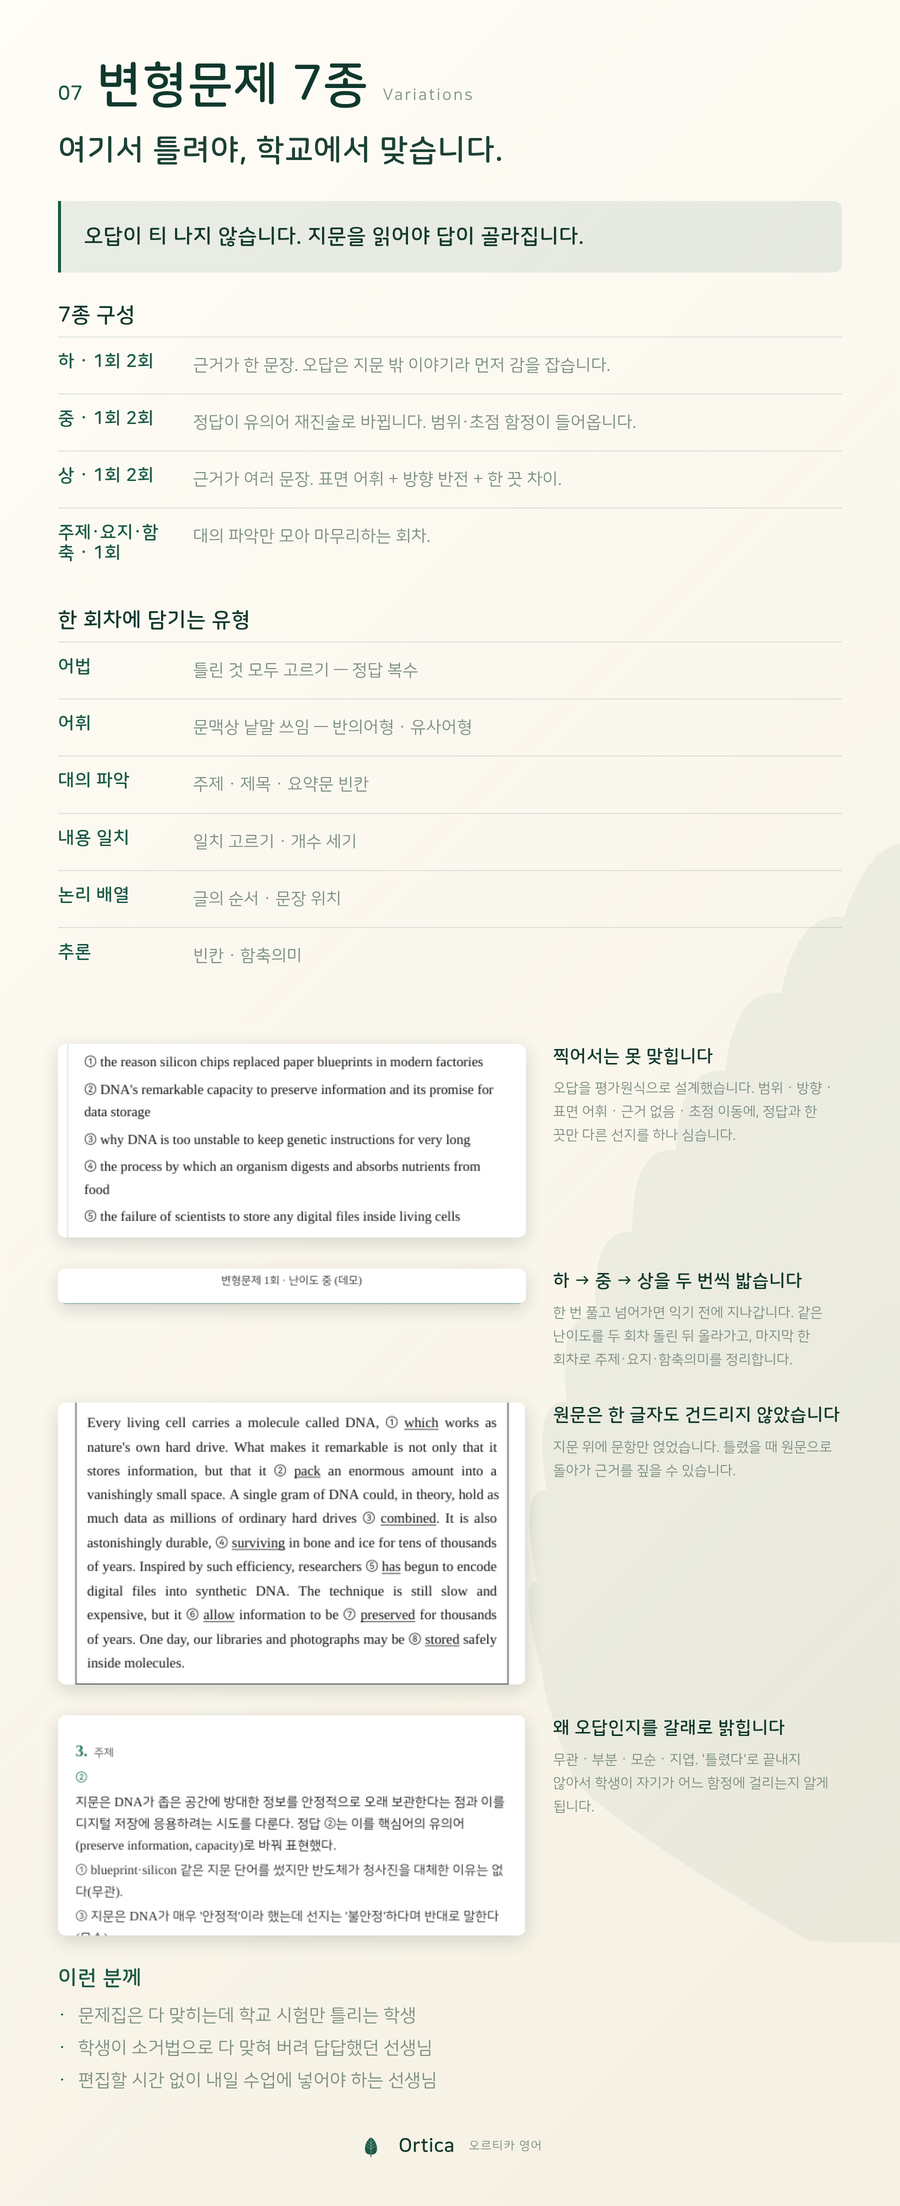
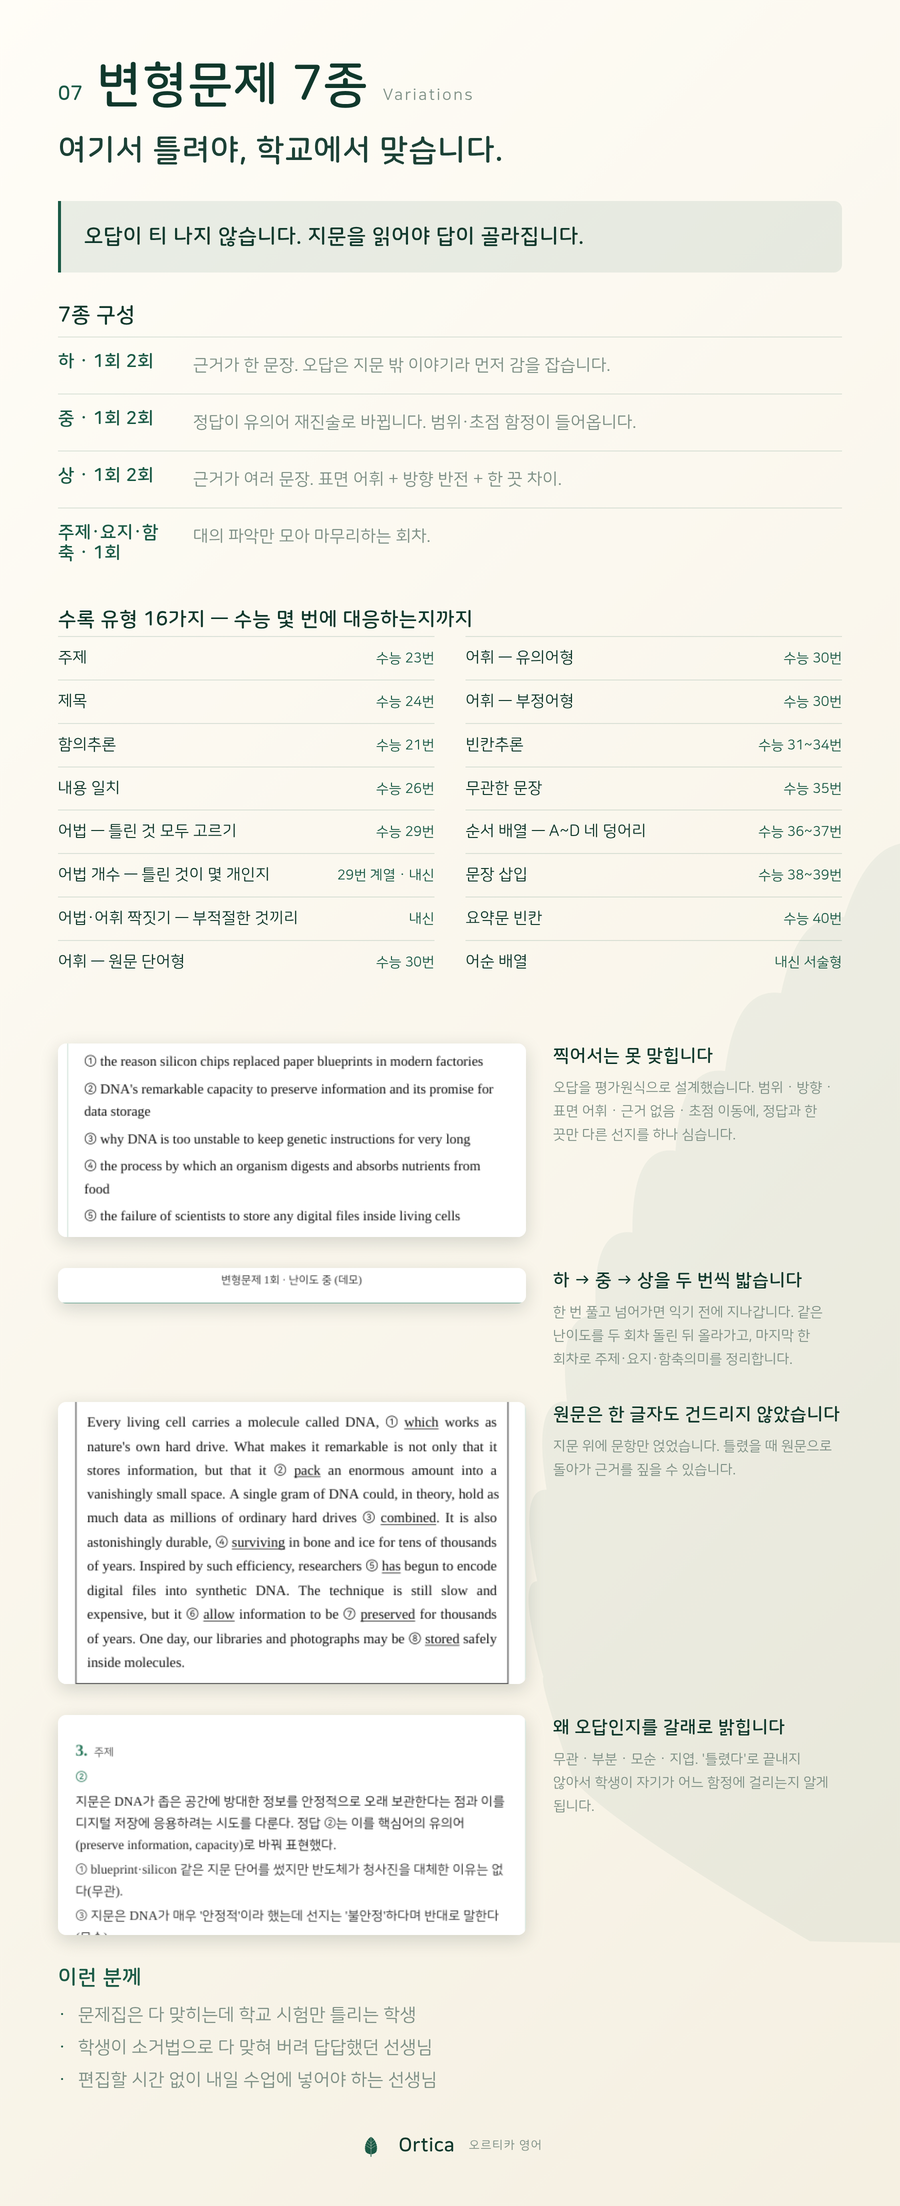
변형문제 수록 유형을 실제 16가지로
'어법·어휘·대의 파악·내용 일치·논리 배열·추론' 여섯 갈래로 뭉뚱그리고
있었다. 실제로는 열여섯 유형이고, 유형마다 수능 몇 번에 대응하는지가
붙는다. 그게 이 자료를 고르는 이유다.

어법만 셋(모두 고르기·개수·짝짓기), 어휘만 셋(원문형·유의어형·부정어형).
개수·짝짓기·어순 배열은 수능에 없고 내신에만 나오는 형태다.

항목이 열여섯이라 세로로 세우면 그 표만 한 화면을 먹는다. Item.grids 와
grid_table 을 더해 두 칸으로 접는다.

Claude-Session: https://claude.ai/code/session_015BpsJgtaBR6xs1aCKnE4xw

diff --git a/brand/catalog.py b/brand/catalog.py
@@ -39,6 +39,9 @@ class Item:
     # ↑ 판형이 여럿인 자료는 그 판형을 다 보여 줘야 무슨 말인지 통한다
     signature: bool = False      # 시그니처 자료. 소개 이미지를 따로 크게 만든다
     made_to_order: bool = False  # 받아 놓고 파는 게 아니라 주문받아 만드는 자료
+    grids: list[tuple[str, list[tuple[str, str]]]] = field(default_factory=list)
+    # ↑ 항목이 열 개를 넘어가는 표. 두 칸으로 접어 놓는다. 줄줄이 세우면
+    #   그 표만 한 화면을 먹는다
     tables: list[tuple[str, list[tuple[str, str]]]] = field(default_factory=list)
     # ↑ (표 제목, [(왼쪽 칸, 오른쪽 설명)]) — 회차 구성·난이도 기준처럼 줄글로 풀면
     #   안 읽히는 것을 표로 보여 준다
@@ -348,20 +351,32 @@ MATERIALS: list[Item] = [
             "읽고도 답이 골라지니까요. 양치기 자료가 그렇습니다. "
             "그래서 지문은 건드리지 않고 오답을 평가원식으로 설계했습니다."
         ),
+        grids=[
+            ("수록 유형 16가지 — 수능 몇 번에 대응하는지까지", [
+                ("주제", "수능 23번"),
+                ("제목", "수능 24번"),
+                ("함의추론", "수능 21번"),
+                ("내용 일치", "수능 26번"),
+                ("어법 — 틀린 것 모두 고르기", "수능 29번"),
+                ("어법 개수 — 틀린 것이 몇 개인지", "29번 계열 · 내신"),
+                ("어법·어휘 짝짓기 — 부적절한 것끼리", "내신"),
+                ("어휘 — 원문 단어형", "수능 30번"),
+                ("어휘 — 유의어형", "수능 30번"),
+                ("어휘 — 부정어형", "수능 30번"),
+                ("빈칸추론", "수능 31~34번"),
+                ("무관한 문장", "수능 35번"),
+                ("순서 배열 — A~D 네 덩어리", "수능 36~37번"),
+                ("문장 삽입", "수능 38~39번"),
+                ("요약문 빈칸", "수능 40번"),
+                ("어순 배열", "내신 서술형"),
+            ]),
+        ],
         tables=[
             ("7종 구성", [
                 ("하 · 1회 2회", "근거가 한 문장. 오답은 지문 밖 이야기라 먼저 감을 잡습니다."),
                 ("중 · 1회 2회", "정답이 유의어 재진술로 바뀝니다. 범위·초점 함정이 들어옵니다."),
                 ("상 · 1회 2회", "근거가 여러 문장. 표면 어휘 + 방향 반전 + 한 끗 차이."),
                 ("주제·요지·함축 · 1회", "대의 파악만 모아 마무리하는 회차."),
-            ]),
-            ("한 회차에 담기는 유형", [
-                ("어법", "틀린 것 모두 고르기 — 정답 복수"),
-                ("어휘", "문맥상 낱말 쓰임 — 반의어형 · 유사어형"),
-                ("대의 파악", "주제 · 제목 · 요약문 빈칸"),
-                ("내용 일치", "일치 고르기 · 개수 세기"),
-                ("논리 배열", "글의 순서 · 문장 위치"),
-                ("추론", "빈칸 · 함축의미"),
             ]),
         ],
         points=[
@@ -383,7 +398,7 @@ MATERIALS: list[Item] = [
         ],
         spec=[("형태", "PDF"),
               ("구성", "7종 — 하·중·상 각 2회 + 주제·요지·함축의미 1회"),
-              ("수록 유형", "어법 · 어휘 · 대의 파악 · 내용 일치 · 논리 배열 · 추론"),
+              ("수록 유형", "16가지 — 주제·제목·함의·일치·어법 3종·어휘 3종·빈칸·무관·순서·삽입·요약·어순"),
               ("판본", "학생용 · 교사용 · 빠른정답 · 해설 + 확인 페이지"),
               ("검증", "문항 3단계 검증 · 애매 문항 별도 표시")],
         who=["문제집은 다 맞히는데 학교 시험만 틀리는 학생",

diff --git a/brand/build.py b/brand/build.py
@@ -546,6 +546,27 @@ LINEUP_PARTS = ["lineup-1-read.png", "lineup-2-pilsaengbo.png",
                 "lineup-3-write.png"]
 
 
+def grid_table(title: str, rows, t: dict[str, str], u: float, width: float) -> str:
+    """항목이 많은 표를 두 칸으로 접는다.
+
+    열여섯 줄을 세로로 세우면 그 표만 한 화면을 먹는다. 왼쪽에 유형, 오른쪽에
+    대응 번호를 붙여 짧은 줄 열여섯 개로 만들면 훑어보기가 된다.
+    """
+    cells = "".join(f"""<div style="display:flex;justify-content:space-between;
+      align-items:baseline;gap:{u * 1.2:.0f}px;padding:{u * 1.15:.0f}px 0;
+      border-top:1px solid {t['line']};break-inside:avoid">
+      <div class="sans" style="font-size:{u * 1.75:.0f}px;color:{t['fg']};
+           line-height:1.4;word-break:keep-all">{k}</div>
+      <div class="sans" style="flex:0 0 auto;font-size:{u * 1.5:.0f}px;
+           color:{t['accent']};white-space:nowrap">{v}</div>
+    </div>""" for k, v in rows)
+    return f"""<div style="margin-top:{u * 3.4:.0f}px">
+      <div class="ko" style="font-size:{u * 2.2:.0f}px;color:{t['fg']};
+           margin-bottom:{u * .6:.0f}px;word-break:keep-all">{title}</div>
+      <div style="column-count:2;column-gap:{u * 3.4:.0f}px">{cells}</div>
+    </div>"""
+
+
 def spec_table(title: str, rows, t: dict[str, str], u: float,
                label_w: float = 13) -> str:
     """제목 + (왼쪽 칸 / 오른쪽 설명) 표. 회차 구성·난이도 기준처럼
@@ -660,6 +681,8 @@ def build_detail(item, width: int = DOC_W) -> tuple[str, int]:
     # 반 페이지 — 차별점 바로 아래. 무엇을 파는지 지면으로 한 번 보여 주고
     # 특징을 하나씩 뜯는 순서가 읽힌다.
     tables_el = "".join(spec_table(title, rows, t, u) for title, rows in item.tables)
+    tables_el += "".join(grid_table(title, rows, t, u, width - u * 13)
+                         for title, rows in item.grids)
     name_px = u * (7.0 if item.signature else 5.4)
 
     # 형태·구성·배포는 이미지에 넣지 않는다. PDF·즉시 다운로드처럼 자료마다

diff --git a/brand/ANALYSIS.md b/brand/ANALYSIS.md
@@ -195,11 +195,29 @@
 베끼지 않고 유의어로 재진술합니다. '원문에서 본 것 같은' 선지가 오히려 함정입니다.
 모든 문항이 3단계 검증을 거치고, 애매할 수 있는 것만 맨 끝 확인 페이지에 모읍니다.
 
-**2) 어법은 "모두 고르시오"**
+**2) 수록 유형 16가지 — 수능 몇 번에 대응하는지까지**
+
+| 유형 | 수능 대응 | | 유형 | 수능 대응 |
+| --- | --- | --- | --- | --- |
+| 주제 | 23번 | | 어휘 — 유의어형 | 30번 |
+| 제목 | 24번 | | 어휘 — 부정어형 | 30번 |
+| 함의추론 | 21번 | | 빈칸추론 | 31~34번 |
+| 내용 일치 | 26번 | | 무관한 문장 | 35번 |
+| 어법 — 틀린 것 모두 고르기 | 29번 | | 순서 배열 (A~D) | 36~37번 |
+| 어법 개수 — 몇 개인지 | 29번 계열·내신 | | 문장 삽입 | 38~39번 |
+| 어법·어휘 짝짓기 | 내신 | | 요약문 빈칸 | 40번 |
+| 어휘 — 원문 단어형 | 30번 | | 어순 배열 | 내신 서술형 |
+
+어법만 셋(모두 고르기 · 개수 · 짝짓기), 어휘만 셋(원문형 · 유의어형 · 부정어형)
+입니다. **수능에 없고 내신에만 나오는 형태(개수·짝짓기·어순 배열)를 따로
+넣었다는 것**이 이 표의 값입니다. 학교 시험지에 나오는데 시중 변형문제집에는
+없는 자리입니다.
+
+**3) 어법은 "모두 고르시오"**
 
 단일 정답이 아니라 복수 정답입니다. 찍어서 맞히는 길을 막습니다.
 
-**3) 7종 구성 — 난이도를 두 번씩 밟고 올라갑니다**
+**4) 7종 구성 — 난이도를 두 번씩 밟고 올라갑니다**
 
 | 회차 | 하는 일 |
 | --- | --- |
@@ -212,7 +230,7 @@
 올라가고, 마지막 한 회차로 대의 파악을 정리합니다. 받는 파일에는
 "1회 · 난이도 중" 처럼 회차와 난이도가 찍혀 있어 반 수준에 맞춰 고릅니다.
 
-**4) 어휘 오답에 출제 방식 태그**
+**5) 어휘 오답에 출제 방식 태그**
 
 `[반의어형]` 처럼 어떻게 비틀었는지를 밝힙니다.
 

diff --git a/brand/posts/07-variation.md b/brand/posts/07-variation.md
@@ -40,7 +40,7 @@
 
 - 형태 — PDF
 - 구성 — 7종 — 하·중·상 각 2회 + 주제·요지·함축의미 1회
-- 수록 유형 — 어법 · 어휘 · 대의 파악 · 내용 일치 · 논리 배열 · 추론
+- 수록 유형 — 16가지 — 주제·제목·함의·일치·어법 3종·어휘 3종·빈칸·무관·순서·삽입·요약·어순
 - 판본 — 학생용 · 교사용 · 빠른정답 · 해설 + 확인 페이지
 - 검증 — 문항 3단계 검증 · 애매 문항 별도 표시
 
@@ -50,15 +50,6 @@
 - **중 · 1회 2회** — 정답이 유의어 재진술로 바뀝니다. 범위·초점 함정이 들어옵니다.
 - **상 · 1회 2회** — 근거가 여러 문장. 표면 어휘 + 방향 반전 + 한 끗 차이.
 - **주제·요지·함축 · 1회** — 대의 파악만 모아 마무리하는 회차.
-
-### 한 회차에 담기는 유형
-
-- **어법** — 틀린 것 모두 고르기 — 정답 복수
-- **어휘** — 문맥상 낱말 쓰임 — 반의어형 · 유사어형
-- **대의 파악** — 주제 · 제목 · 요약문 빈칸
-- **내용 일치** — 일치 고르기 · 개수 세기
-- **논리 배열** — 글의 순서 · 문장 위치
-- **추론** — 빈칸 · 함축의미
 
 ## 이런 분께
 
